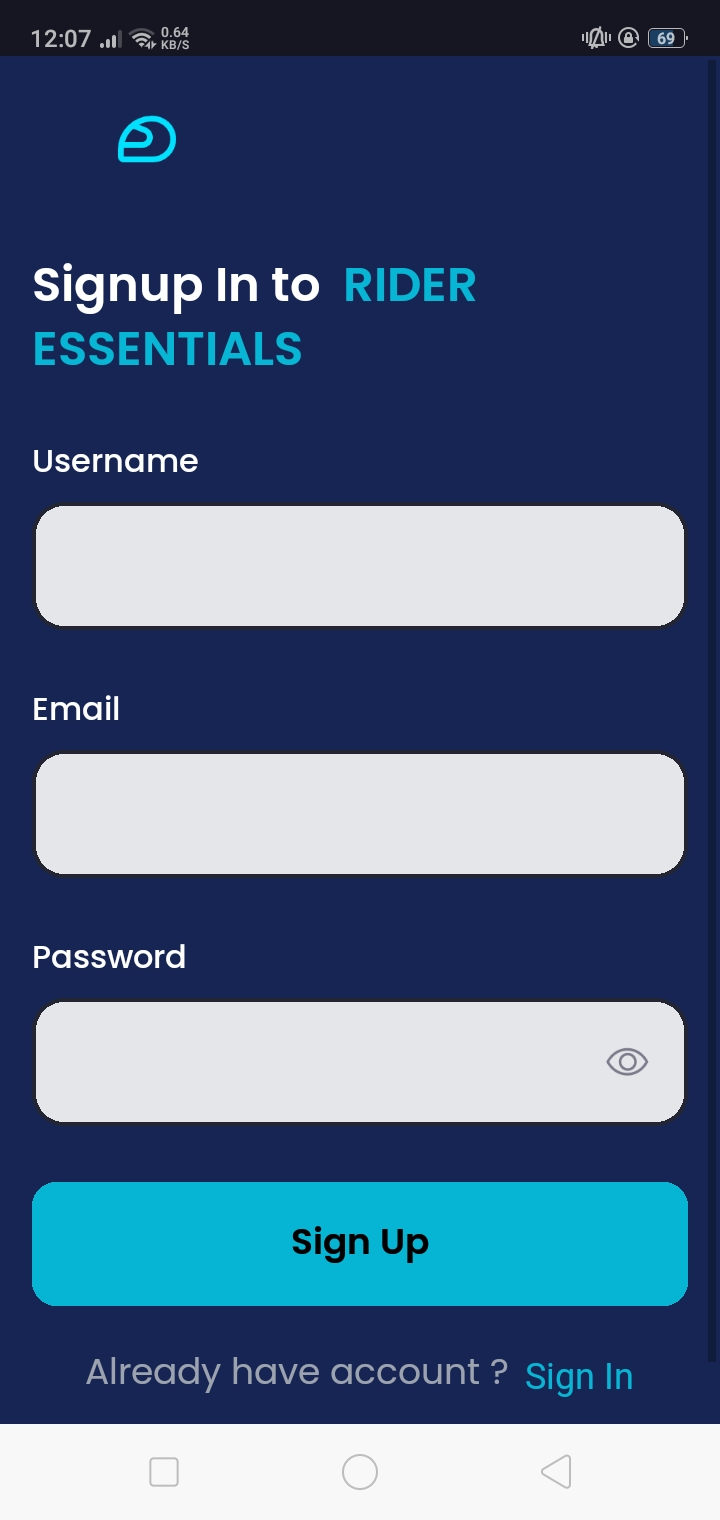
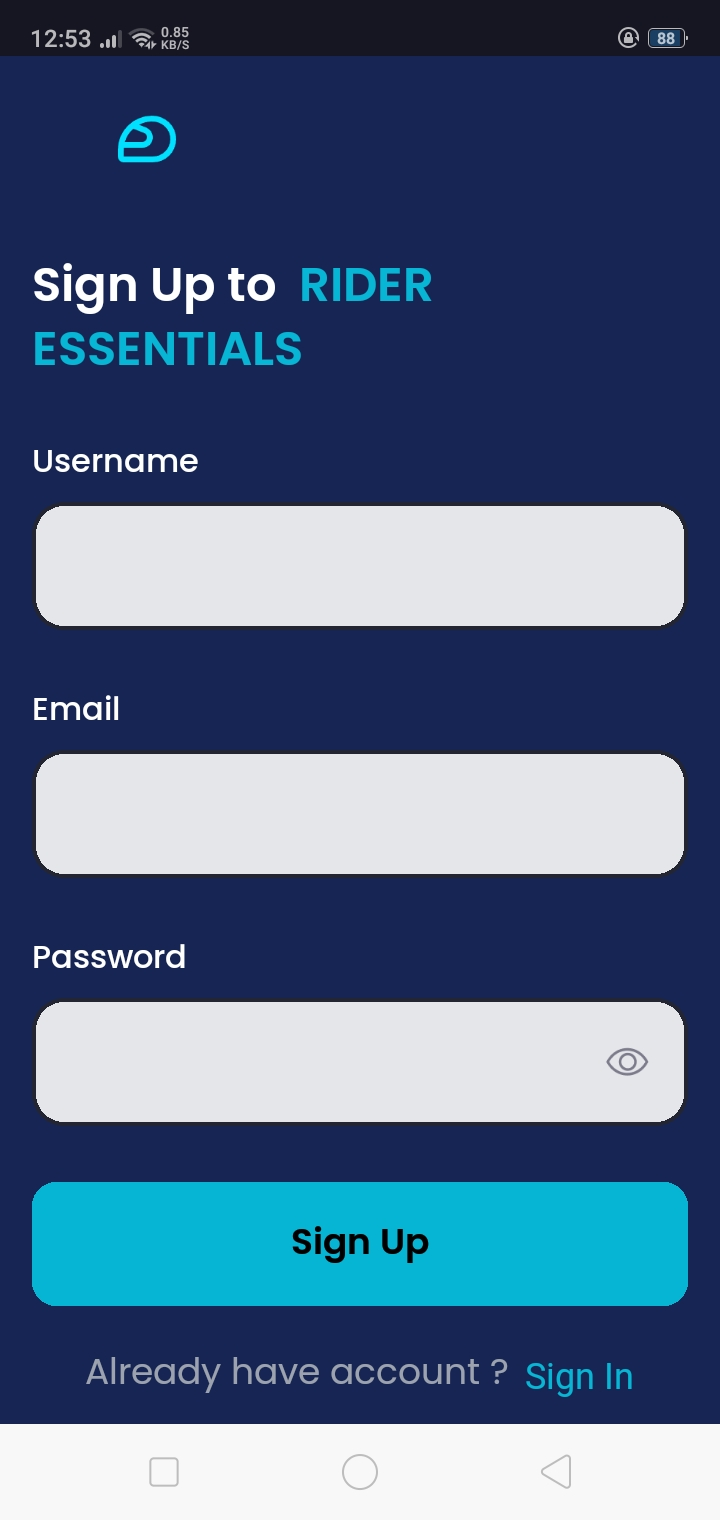
Update(1)

diff --git a/app/(auth)/sign-up.jsx b/app/(auth)/sign-up.jsx
@@ -29,7 +29,7 @@ const SignUp = () => {
             className="w-[115px] h-[35px]"
           />
           <Text className="text-2xl text-white mt-10 font-psemibold">
-            Signup In to {' '}
+            Sign Up to {' '}
             <Text className="text-cyan-500">RIDER ESSENTIALS</Text>
           </Text>
 
